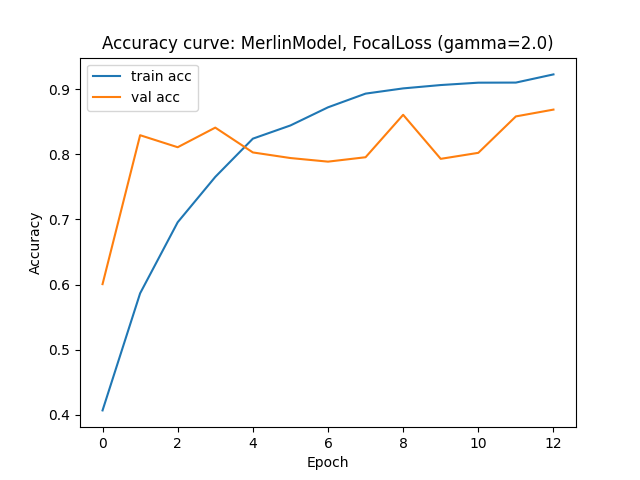
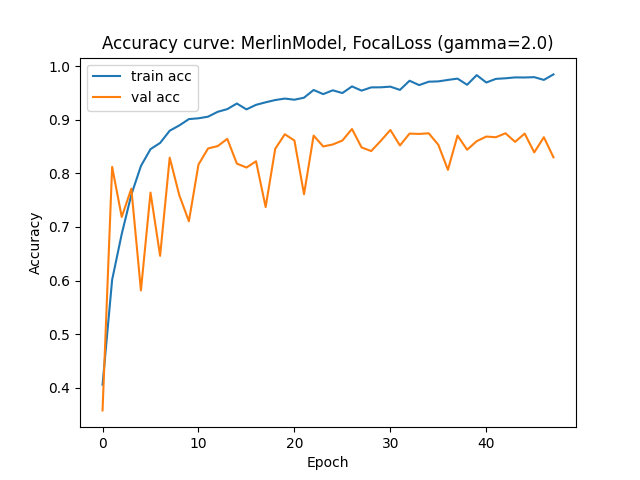
Added the MERLIN foundation model module

diff --git a/DeepLClassifiers/Merlin/foundation_model.py b/DeepLClassifiers/Merlin/foundation_model.py
@@ -55,7 +55,7 @@ def main():
     data_dir = "/projects/net_contrast_classification/contrast_phase/Preprocessing/Contrast_data/preprocessed_data.csv"
 
     batch_size = 2
-    epochs = 50
+    epochs = 100
 
     label_map = {0: "contrast",
                  1: "phase"}
@@ -101,7 +101,7 @@ def main():
                                     class_weights=class_weights,
                                     val_loader=val_loader,
                                     epochs = epochs,
-                                    early_stopping=10,
+                                    early_stopping=None,
                                     save_path = save_path)
     
 
